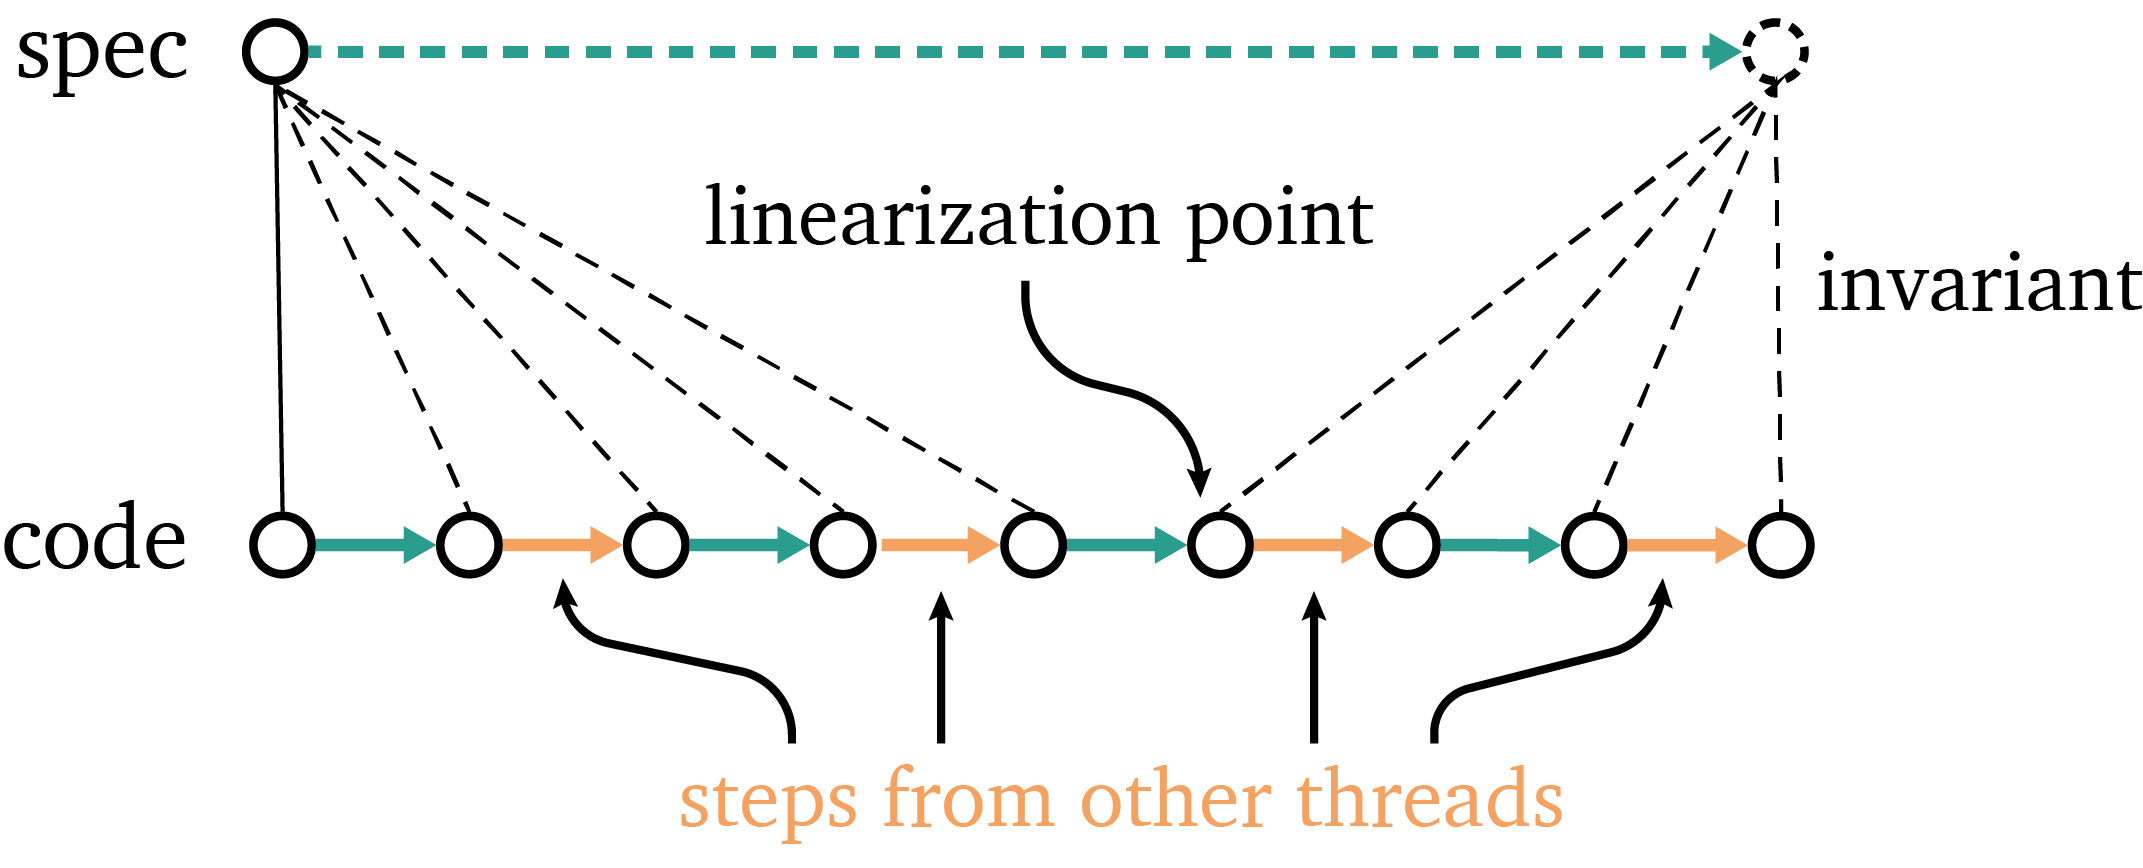
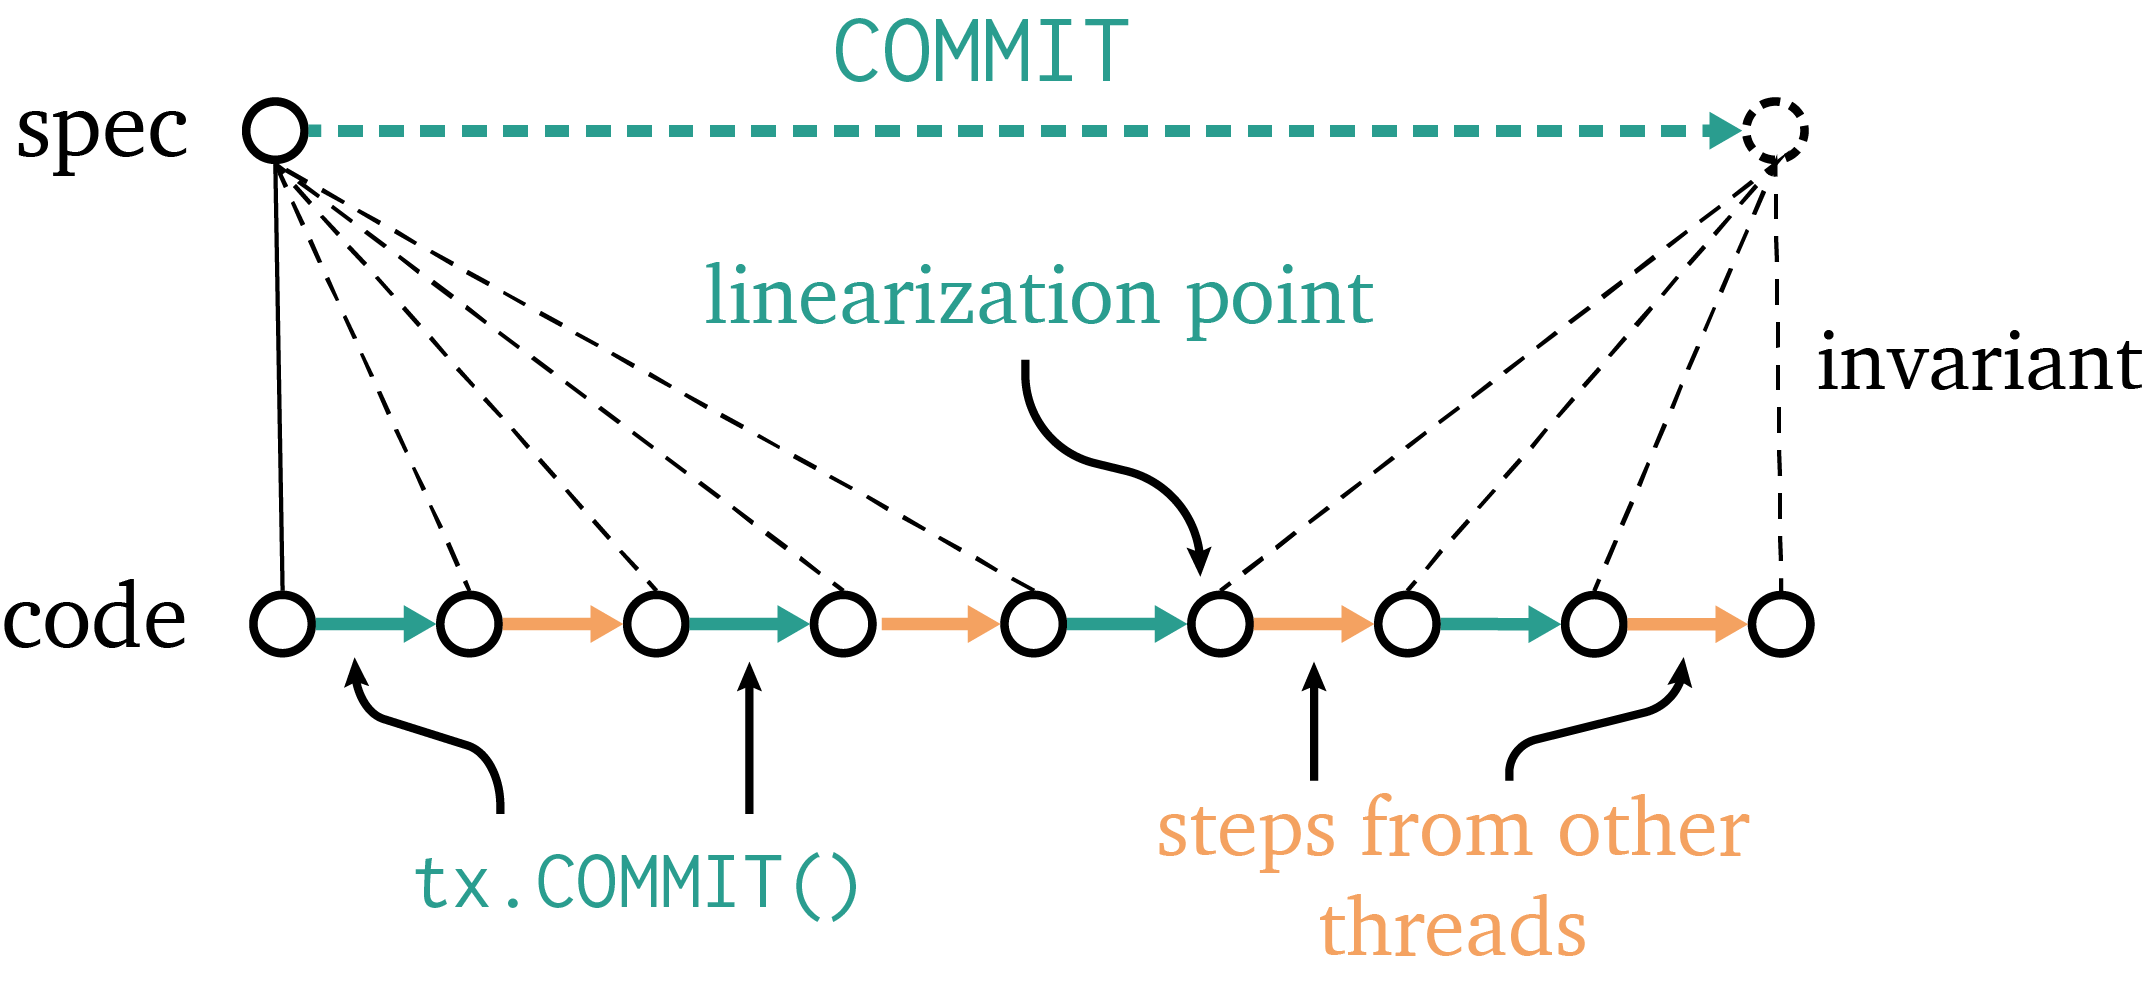
Fix up the refinement comparison figure

diff --git a/daisy-nfs/01-intro.tex b/daisy-nfs/01-intro.tex
@@ -50,27 +50,33 @@ time other threads might run, and similarly the proof must consider interference
 from other threads at any time.
 
 \begin{figure}
-  \begin{subfigure}[t]{0.6\textwidth}
+  \begin{subfigure}[m]{0.6\textwidth}
+    \vspace{0pt}
   \includegraphics{fig/concurrent-refinement.png}
-  \caption{Concurrent simulation}
+  \includegraphics{fig/crash-refinement.png}
+  \caption{Concurrent, crash-safe simulation}
   \label{fig:refinement:concurrent}
   \end{subfigure}%
-%
-  \begin{subfigure}[t]{0.4\textwidth}
+\hfill%
+  \begin{subfigure}[m]{0.4\textwidth}
+    \vspace{0pt}
   \includegraphics{fig/sequential-refinement.png}
   \caption{Sequential simulation}
   \label{fig:refinement:seq}
   \end{subfigure}
   \vspace{0.5\baselineskip}
-  \caption[Proving a concurrent simulation]{Contrast between verifying a
-    concurrent refinement (left) and sequential refinement (right), for a single
+  \caption[Concurrent, crash-safe simulation vs sequential simulation]{Contrast between verifying a
+    concurrent, crash-safe refinement (left) and sequential refinement (right), for a single
     procedure running the green-colored transitions. Proving concurrent
     refinement requires a proof that shows every operation (1) preserves the
     invariant at all intermediate points, and (2) simulates the abstract
-    specification for the operation at some \emph{linearization point}. Unlike
+    specification for the operation at some \emph{linearization point} (the
+    above diagram), as well
+    a similar obligation for crashes (the below diagram). For
+    crash safety, a crash at any time should behave like a specification crash transition. Unlike
     sequential refinement, the proof must show the invariant holds at
     intermediate points in order to reason about potential interference with
-    other threads. \tej{fix vertical alignment}}
+    other threads.}
 
   \label{fig:concurrent-refinement}
 \end{figure}

diff --git a/thesis.tex b/thesis.tex
@@ -1,5 +1,4 @@
 \documentclass[11pt,twoside,final]{mitthesis}
-% add class option vi to retain copyright
 
 \input{preamble}
 \input{cmds}
